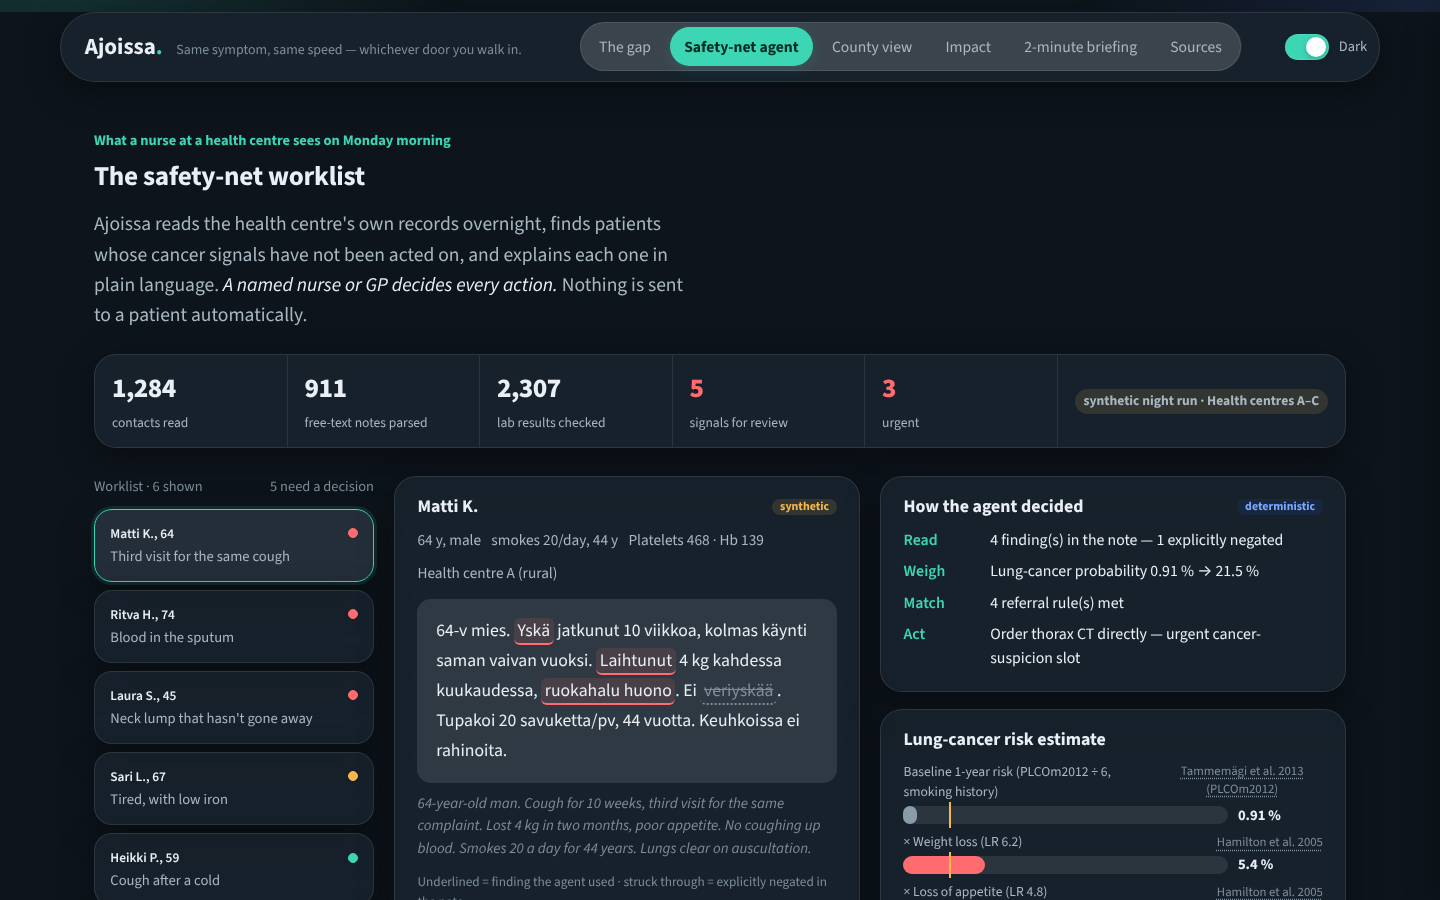
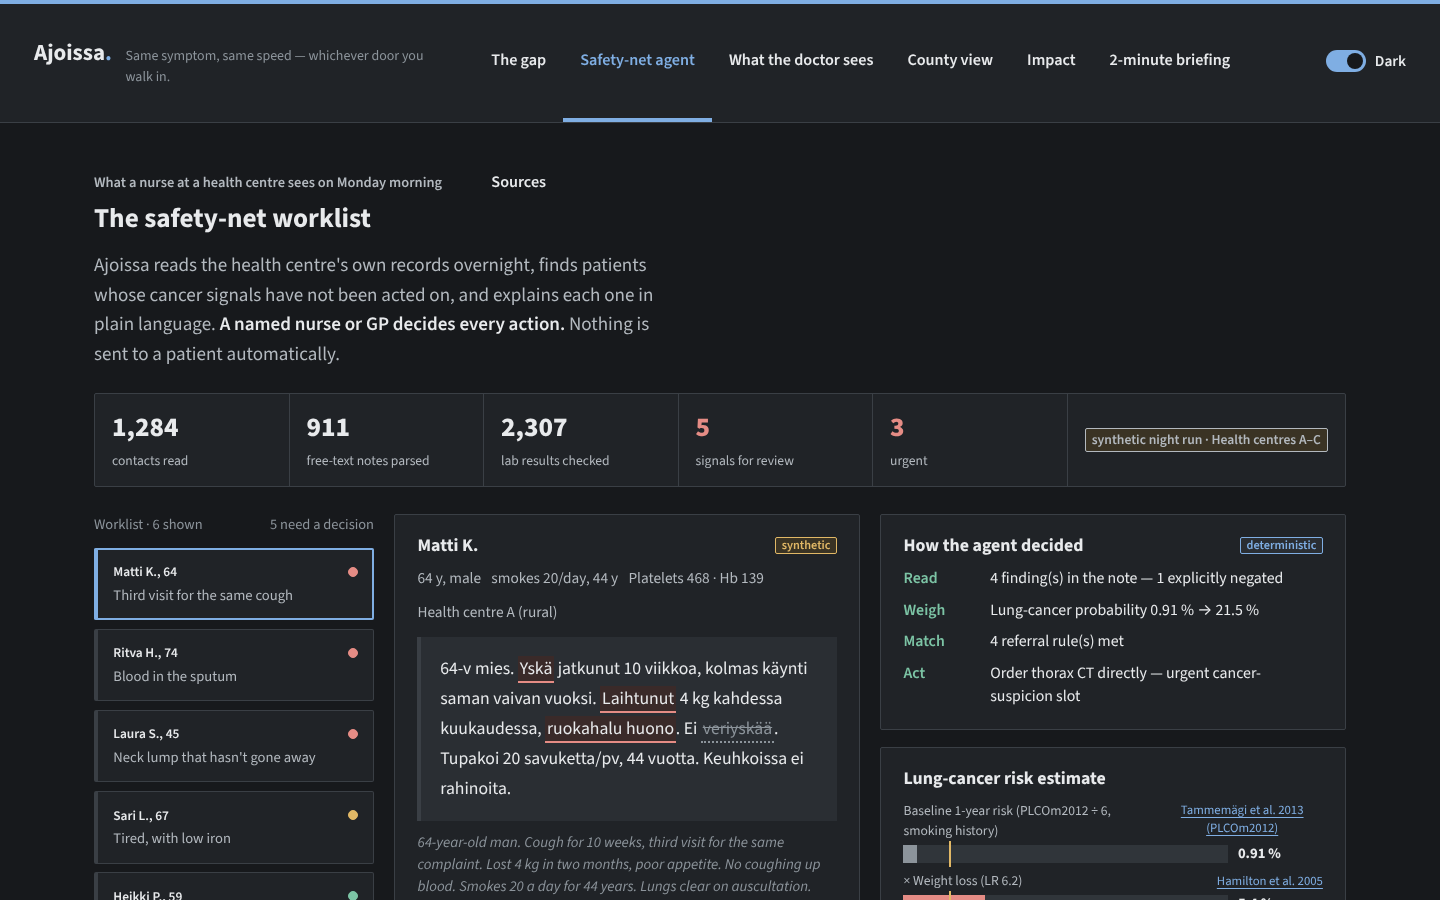
Demo preview: civic (public-service) theme, neutral dark mode, 'What the doctor sees' EHR view
Claude-Session: https://claude.ai/code/session_01AsaNd9zGyE7C2rGhmzNBqv

diff --git a/app/css/civic.css b/app/css/civic.css
@@ -1,0 +1,203 @@
+/* ============================================================
+   Ajoissa — "civic" theme: Finnish public-service feel
+   (white, boxy, 1px borders, deep blue, no glows). Light default,
+   neutral-grey dark mode. Loaded after app.css.
+   ============================================================ */
+@font-face { font-family: "Source Sans 3"; src: url("../fonts/source-sans-3-latin-wght-normal.woff2") format("woff2"); font-weight: 200 900; font-display: swap; }
+@font-face { font-family: "Source Sans 3"; src: url("../fonts/source-sans-3-latin-ext-wght-normal.woff2") format("woff2"); font-weight: 200 900; unicode-range: U+0100-024F; font-display: swap; }
+@font-face { font-family: "Source Sans 3"; src: url("../fonts/source-sans-3-latin-wght-italic.woff2") format("woff2"); font-weight: 200 900; font-style: italic; font-display: swap; }
+
+:root, [data-theme="light"] {
+  --sans: "Source Sans 3", "Segoe UI", Arial, sans-serif;
+  --serif: "Source Sans 3", "Segoe UI", Arial, sans-serif;
+  --night: #F5F6F7;          /* page */
+  --night-2: #FFFFFF;        /* surface */
+  --night-3: #EEF1F4;        /* inset / selected */
+  --dot-fill: #FFFFFF;
+  --line: #C8CDD0;
+  --line-soft: #E1E5E8;
+  --grid: #E1E5E8;
+  --snow: #212121;           /* text */
+  --frost: #4F5961;          /* secondary text */
+  --mute: #6B757D;
+  --brand: #00347A;          /* deep blue */
+  --primary: #2A6EBB;        /* action blue */
+  --primary-dark: #235A9A;
+  --sky: #2A6EBB;
+  --berry: #C13832; --alert: #C13832; --alert-text: #A82E29;
+  --berry-soft: #FBEAE9; --alert-soft: #FBEAE9;
+  --aurora: #0B7A5C; --aurora-soft: #E3F3EE; --ok-soft: #CDEBE1;
+  --amber: #9A5B00; --amber-soft: #FFF3D6;
+  --route-a: #8C969E;
+  --r-s: 2px; --r-m: 2px; --r-l: 4px;
+}
+[data-theme="dark"] {
+  --night: #17191C;
+  --night-2: #202327;
+  --night-3: #2A2E33;
+  --dot-fill: #202327;
+  --line: #3A3F45;
+  --line-soft: #30353A;
+  --grid: #30353A;
+  --snow: #E8EAEC;
+  --frost: #B3B9BF;
+  --mute: #8C949B;
+  --brand: #E8EAEC;
+  --primary: #7FAEE3;
+  --primary-dark: #9CC1EA;
+  --sky: #7FAEE3;
+  --berry: #E58C85; --alert: #E58C85; --alert-text: #F0A39D;
+  --berry-soft: #3A2A29; --alert-soft: #33272A;
+  --aurora: #7CC4A5; --aurora-soft: #24332D; --ok-soft: #2C4038;
+  --amber: #E1B866; --amber-soft: #3A3324;
+  --route-a: #8C949B;
+}
+
+html { font-size: 17px; }
+html, body { background: var(--night); color: var(--snow); font-family: var(--sans); }
+h1, h2, h3 { font-stretch: normal; letter-spacing: 0; color: var(--brand); }
+[data-theme="dark"] h1, [data-theme="dark"] h2, [data-theme="dark"] h3 { color: var(--snow); }
+h1 { font-weight: 700; font-size: clamp(2rem, 3.6vw, 3rem); max-width: 22ch; }
+.lede { font-size: 1.12rem; color: var(--frost); }
+.lede em { color: var(--snow); font-style: normal; font-weight: 600; }
+.kicker { color: var(--frost); font-weight: 600; font-size: .85rem; }
+
+/* header: white bar, underline tabs */
+.top { background: var(--night-2); border-bottom: 1px solid var(--line); backdrop-filter: none; padding: 0 2rem; gap: 1.6rem; box-shadow: none; }
+.top::before { content: ""; position: absolute; left: 0; right: 0; top: 0; height: 4px; background: var(--brand); }
+[data-theme="dark"] .top::before { background: var(--primary); }
+.brand { padding: 1rem 0 .9rem; }
+.wordmark { font-stretch: normal; font-weight: 700; font-size: 1.35rem; color: var(--brand); letter-spacing: 0; }
+[data-theme="dark"] .wordmark { color: var(--snow); }
+.wordmark .dot { color: var(--primary); }
+.brand small { color: var(--mute); }
+nav.tabs { gap: 0; align-self: stretch; }
+nav.tabs button { border-radius: 0; padding: 0 1rem; color: var(--snow); font-weight: 600; font-size: .95rem; border-bottom: 4px solid transparent; height: 100%; min-height: 3.6rem; }
+nav.tabs button[aria-selected="true"] { background: none; color: var(--primary); border-bottom-color: var(--primary); }
+nav.tabs button:hover:not([aria-selected="true"]) { background: var(--night-3); color: var(--snow); }
+
+/* boxes */
+.panel, .ev, .river, .qcard, .runbar, .unmeasured, .drawer { background: var(--night-2); border: 1px solid var(--line); border-radius: var(--r-m); box-shadow: none; }
+.river { padding: 1.6rem 1.8rem 1.2rem; }
+.panel h3 { color: var(--snow); font-size: 1.05rem; }
+.qcard { border-left: 4px solid var(--line); }
+.qcard[aria-pressed="true"] { background: var(--night-2); border-color: var(--line); border-left-color: var(--primary); outline: 2px solid var(--primary); outline-offset: -2px; }
+.qcard:hover { background: var(--night-3); }
+.note { background: var(--night-3); border-left: 4px solid var(--line); border-radius: 0; font-size: 1.04rem; }
+.note mark { background: var(--berry-soft); border-bottom: 2px solid var(--alert); border-radius: 0; }
+.note mark.calm { background: var(--night-2); border-bottom-color: var(--mute); }
+
+/* numbers */
+.river .gapnum, .ev .big, .runbar b, .outcome .v, .timer, .unmeasured .q { font-stretch: normal; letter-spacing: 0; }
+.river .gapnum { color: var(--alert); }
+.river .gapnum small { letter-spacing: 0; font-weight: 600; }
+.outcome .v { color: var(--primary); }
+
+/* buttons: rectangular, solid */
+.btn { background: var(--primary); color: #fff; border-radius: 2px; font-weight: 600; padding: .6rem 1.1rem; }
+.btn:hover:not(:disabled) { background: var(--primary-dark); }
+[data-theme="dark"] .btn { color: #17191C; }
+.btn.ghost { background: var(--night-2); color: var(--primary); border: 1px solid var(--primary); }
+.toggle { border-radius: 2px; }
+
+/* tags: small boxy labels */
+.synthetic-tag, .real-tag, .model-tag { border-radius: 2px; border: 1px solid; font-weight: 600; font-size: .72rem; padding: .05em .45em; }
+.synthetic-tag { background: var(--amber-soft); color: var(--amber); border-color: currentColor; border-style: solid; }
+.real-tag { background: var(--aurora-soft); color: var(--aurora); border-color: currentColor; }
+.model-tag { background: var(--night-3); color: var(--primary); border-color: currentColor; }
+
+.action { border-radius: 2px; border: 1px solid var(--alert); border-left-width: 6px; background: var(--night-2); }
+.action.watch { border-color: var(--amber); background: var(--night-2); }
+.action.calm { border-color: var(--aurora); background: var(--night-2); }
+.rules li { background: var(--night-3); border-radius: 0; }
+
+.bar .track, .wf-bar, .stepbar .t { background: var(--line-soft); border-radius: 0; }
+.bar .fill, .wf-fill, .stepbar .t > span { border-radius: 0; background: var(--route-a); }
+.bar.hl .fill, .wf-fill.hot, .stepbar .t > span.slow { background: var(--alert); }
+.wf-thresh { background: var(--brand); }
+[data-theme="dark"] .wf-thresh { background: var(--amber); }
+.cell-bar { border-radius: 0; background: var(--route-a); }
+.cell-bar.bad { background: var(--alert); }
+.cell-bar.ok { background: var(--aurora); }
+.stepbar { grid-template-columns: 11.5rem 1fr 3.5rem; }
+.stepbar .t > i { background: var(--brand); }
+[data-theme="dark"] .stepbar .t > i { background: var(--aurora); }
+.clock div { border-top-width: 6px; }
+.runbar > div { border-right-color: var(--line); }
+.runbar .hot b { color: var(--alert); }
+
+.unmeasured { background: var(--amber-soft); border-color: var(--amber); border-left-width: 6px; }
+.unmeasured .q { color: var(--amber); }
+.unmeasured p { font-size: 1.05rem; }
+
+.brief-card { background: var(--night-2); color: var(--snow); border: 1px solid var(--line); border-radius: 2px; }
+.brief-card h2 { color: var(--brand); }
+[data-theme="dark"] .brief-card h2 { color: var(--snow); }
+.brief-card .kicker, .brief-card .cite { color: var(--frost); }
+.brief-card li.speaking { background: var(--amber-soft); }
+
+table.tbl th { color: var(--frost); border-bottom: 2px solid var(--line); }
+table.tbl td { border-bottom-color: var(--line-soft); }
+table.tbl tr.sel td { background: var(--night-3); }
+.pill { border-radius: 2px; }
+.pill.over { background: var(--berry-soft); color: var(--alert-text); }
+.pill.ontime { background: var(--aurora-soft); color: var(--aurora); }
+.pill.risk { background: var(--amber-soft); color: var(--amber); }
+.grade { border-radius: 2px; }
+.cite { color: var(--primary); text-decoration: underline; text-decoration-style: solid; }
+footer.foot { border-top: 1px solid var(--line); }
+.patient-meta input, .patient-meta select, #e-note, #aq { background: var(--night-2) !important; color: var(--snow) !important; border: 1px solid var(--line) !important; border-radius: 2px !important; }
+
+/* theme switch: plain checkbox-style toggle */
+.theme-switch { display: inline-flex; align-items: center; gap: .5rem; font-size: .9rem; color: var(--snow); margin-left: .6rem; cursor: pointer; user-select: none; font-weight: 600; }
+.theme-switch input { position: absolute; opacity: 0; width: 1px; height: 1px; }
+.theme-switch .track { width: 40px; height: 22px; border-radius: 11px; background: var(--line); position: relative; transition: background .2s; }
+.theme-switch .knob { position: absolute; top: 3px; left: 3px; width: 16px; height: 16px; border-radius: 50%; background: #fff; transition: transform .2s; }
+.theme-switch input:checked + .track { background: var(--primary); }
+.theme-switch input:checked + .track .knob { transform: translateX(18px); background: var(--night); }
+.theme-switch input:focus-visible + .track { outline: 2px solid var(--primary); outline-offset: 2px; }
+
+/* ===== EHR view (what the doctor sees) ===== */
+.ehr { margin-top: 1.4rem; border: 1px solid var(--line); background: var(--night-2); font-size: .92rem; }
+.ehr-bar { display: flex; align-items: center; gap: 1rem; padding: .45rem .8rem; background: #3B4650; color: #fff; font-size: .82rem; }
+[data-theme="dark"] .ehr-bar { background: #2A2E33; }
+.ehr-bar b { font-weight: 700; }
+.ehr-bar span { opacity: .8; }
+.ehr-pt { display: grid; grid-template-columns: auto 1fr auto; gap: 1.2rem; align-items: center; padding: .7rem 1rem; border-bottom: 1px solid var(--line); background: var(--night-3); }
+.ehr-pt .nm { font-weight: 700; font-size: 1.05rem; }
+.ehr-pt .meta { color: var(--frost); }
+.ehr-body { display: grid; grid-template-columns: 170px 1fr 360px; min-height: 520px; }
+.ehr-nav { border-right: 1px solid var(--line); padding: .6rem 0; }
+.ehr-nav div { padding: .4rem .9rem; color: var(--frost); }
+.ehr-nav div.on { background: var(--night-3); color: var(--snow); font-weight: 600; border-left: 3px solid var(--primary); }
+.ehr-main { padding: 1rem 1.2rem; }
+.ehr-main h4 { margin: 0 0 .5rem; font-size: .95rem; color: var(--snow); }
+.ehr-field { border: 1px solid var(--line); padding: .6rem .7rem; min-height: 4.5rem; background: var(--night-2); margin-bottom: .8rem; white-space: pre-wrap; }
+.ehr-row { display: grid; grid-template-columns: 9rem 1fr; gap: .4rem; padding: .25rem 0; border-bottom: 1px solid var(--line-soft); }
+.ehr-row span:first-child { color: var(--frost); }
+.ehr-side { border-left: 1px solid var(--line); padding: .8rem; background: var(--night); }
+.cds { border: 1px solid var(--alert); border-left: 6px solid var(--alert); background: var(--night-2); padding: .8rem .9rem; }
+.cds .src { font-size: .75rem; color: var(--frost); display: flex; justify-content: space-between; margin-bottom: .3rem; }
+.cds h5 { margin: 0 0 .4rem; font-size: 1rem; color: var(--snow); }
+.cds ul { margin: .3rem 0 .6rem; padding-left: 1.1rem; }
+.cds li { margin: .15rem 0; }
+.cds .acts { display: flex; flex-direction: column; gap: .4rem; margin-top: .6rem; }
+.cds .acts .btn { justify-content: center; }
+.cds .why { font-size: .8rem; color: var(--frost); margin-top: .6rem; border-top: 1px solid var(--line-soft); padding-top: .5rem; }
+.inbox { margin-top: .9rem; border: 1px solid var(--line); background: var(--night-2); }
+.inbox h5 { margin: 0; padding: .5rem .7rem; font-size: .9rem; border-bottom: 1px solid var(--line); background: var(--night-3); }
+.inbox div { padding: .45rem .7rem; border-bottom: 1px solid var(--line-soft); display: flex; justify-content: space-between; gap: .5rem; }
+.flowrow { display: grid; grid-template-columns: repeat(4, 1fr); gap: 0; margin-top: 1rem; border: 1px solid var(--line); }
+.flowrow > div { padding: .9rem 1rem; border-right: 1px solid var(--line); background: var(--night-2); }
+.flowrow > div:last-child { border-right: 0; }
+.flowrow b { display: block; color: var(--brand); margin-bottom: .3rem; }
+[data-theme="dark"] .flowrow b { color: var(--primary); }
+.flowrow p { margin: 0; color: var(--frost); font-size: .9rem; }
+.ehr-toast { margin-top: .6rem; padding: .5rem .7rem; background: var(--aurora-soft); color: var(--aurora); border: 1px solid var(--aurora); display: none; }
+.ehr-toast.on { display: block; }
+@media (max-width: 1100px) { .ehr-body { grid-template-columns: 1fr; } .flowrow { grid-template-columns: 1fr 1fr; } .top { padding: 0 1rem; } }
+.top { flex-wrap: nowrap; }
+.brand small { display: none; }
+nav.tabs { flex-wrap: nowrap; margin-left: auto; }
+nav.tabs button { padding: 0 .75rem; font-size: .92rem; white-space: nowrap; min-height: 3.4rem; }
+@media (max-width: 1250px) { .brand small { display: none; } nav.tabs button { padding: 0 .5rem; font-size: .85rem; } }

diff --git a/app/js/app.js b/app/js/app.js
@@ -100,7 +100,7 @@
           <div class="bar"><span>Higher education · men</span><span class="track"><span class="fill" style="width:${D.ses.men[1]}%"></span></span><span class="num">${D.ses.men[1]}%</span></div>
           <div class="bar hl"><span>Basic · women</span><span class="track"><span class="fill" style="width:${D.ses.women[0]}%"></span></span><span class="num">${D.ses.women[0]}%</span></div>
           <div class="bar"><span>Higher · women</span><span class="track"><span class="fill" style="width:${D.ses.women[1]}%"></span></span><span class="num">${D.ses.women[1]}%</span></div></div>
-        <p>Five-year survival, all cancers. Less-educated patients are diagnosed later (stage IV odds +10–15 %), operated on less, and die more often <b>even after adjusting for stage, treatment and region</b>. Occupational care covers 92 % of wage earners — not the retired or unemployed.</p>
+        <p>Five-year survival, all cancers. Less-educated patients are diagnosed later (stage IV odds +10–15 %), operated on less, and have higher cancer mortality in a national register study. Occupational care covers 92 % of wage earners — not the retired or unemployed.</p>
         <footer>${cite("oecd2025")} ${cite("zai2025")} ${cite("kela2026")} <span class="real-tag">real</span></footer></article>`;
   }
 
@@ -266,6 +266,56 @@
       <text x="${(X(daysEarlier) + X(0)) / 2}" y="72" fill="var(--snow)" font-size="13" text-anchor="middle" font-weight="700">${daysEarlier} days recovered</text></svg>`;
   }
 
+  /* ================= EHR (what the doctor sees) ================= */
+  function renderEhr() {
+    const { c, r } = assessed.find(x => x.c.id === "c1");
+    const reasons = r.hits.map(h => `<li>${h.text}</li>`).join("");
+    const hist = c.history.slice().sort((a, b) => b.daysAgo - a.daysAgo);
+    $("#ehr").innerHTML = `<div class="ehr" role="img" aria-label="Illustration of a patient record with the Ajoissa card">
+      <div class="ehr-bar"><b>Patient record system</b><span>Health centre A · Reception 3 · Dr. A. Virtanen</span><span style="margin-left:auto">Generic illustration — not a real product · synthetic patient</span></div>
+      <div class="ehr-pt"><div class="nm">${c.name}</div><div class="meta">${c.patient.age} y · male · personal ID hidden · Smoker 20/day · COPD</div><span class="synthetic-tag">synthetic</span></div>
+      <div class="ehr-body">
+        <div class="ehr-nav"><div>Summary</div><div class="on">Visits</div><div>Lab results</div><div>Imaging</div><div>Orders</div><div>Referrals</div><div>Medications</div></div>
+        <div class="ehr-main">
+          <h4>Today — physician visit (draft)</h4>
+          <div class="ehr-field" id="ehr-note">${esc(c.note)}</div>
+          <h4>Recent results</h4>
+          <div class="ehr-row"><span>Platelets</span><span><b style="color:var(--alert)">468 ×10⁹/L ↑</b> (ref. 150–360)</span></div>
+          <div class="ehr-row"><span>Haemoglobin</span><span>139 g/L</span></div>
+          <h4 style="margin-top:.9rem">Earlier visits</h4>
+          ${hist.map(h => `<div class="ehr-row"><span>${h.daysAgo} days ago</span><span>${esc(h.text)}</span></div>`).join("")}
+          <div class="ehr-toast" id="ehr-toast"></div>
+        </div>
+        <div class="ehr-side">
+          <div class="cds">
+            <div class="src"><span>Ajoissa · cancer safety net</span><span>for review</span></div>
+            <h5>Consider urgent thorax CT</h5>
+            <div>Lung-cancer risk estimate <b>${pct(r.risk.posterior)}</b> (referral threshold 3 %)</div>
+            <ul>${reasons}</ul>
+            <div class="acts">
+              <button class="btn" id="ehr-order">Order thorax CT (pre-filled)</button>
+              <button class="btn ghost" id="ehr-review">Book review in 2 weeks instead</button>
+              <button class="btn ghost" id="ehr-dismiss">Not now — record reason</button>
+            </div>
+            <div class="why">Why am I seeing this? Rules after ${cite("nice_ng12")}, risk after ${cite("plcom2012")} and ${cite("hamilton2005")}. The suggestion is advisory; the decision and the order stay with you.</div>
+          </div>
+          <div class="inbox"><h5>Safety-net list · nurse M. Korhonen</h5>
+            ${assessed.filter(x => x.r.action.target && x.c.id !== "c1").map(x => `<div><span>${x.c.name}</span><span style="color:var(--frost)">${x.r.action.clock[0]}</span></div>`).join("")}
+          </div>
+        </div>
+      </div></div>`;
+    const toast = (t) => { const el2 = $("#ehr-toast"); el2.textContent = t; el2.classList.add("on"); };
+    $("#ehr-order").addEventListener("click", () => toast("Draft order created: Thorax CT, urgent (cancer suspicion). Clinical details pre-filled from the note and results — check and sign to send. Pathway clock starts when signed."));
+    $("#ehr-review").addEventListener("click", () => toast("Review booked in 14 days. If it is missed, Matti returns to the top of the safety-net list."));
+    $("#ehr-dismiss").addEventListener("click", () => toast("Dismissed. Your reason is logged and used to tune the rules — the card will not reappear for these findings."));
+    $("#ehr-flow").innerHTML = [
+      ["1 · Data the county already has", "Most counties already copy their records nightly into a data warehouse or data lake. Ajoissa reads from there, so there is no new data collection and no change to the doctor's workflow."],
+      ["2 · Engine on county servers", "The rules and risk model run inside the county's own environment, as the new law requires: the county's own data, for its own patients, with every access logged."],
+      ["3 · Shown inside the record", "Where the record system supports open plug-in standards (HL7 FHIR, SMART on FHIR, CDS Hooks), the card appears in the chart. Where it doesn't, the nurse uses a separate worklist page with single sign-on and a direct link to the patient."],
+      ["4 · Decision goes back", "The doctor's choice comes back as a draft order or a note the doctor signs. Signing starts the pathway clock; the timestamps feed the county view."]
+    ].map(([h, t]) => `<div><b>${h}</b><p>${t}</p></div>`).join("");
+  }
+
   /* ================= COUNTY ================= */
   // Seeded RNG so the synthetic numbers are identical on every run
   function rng(seed) { return () => (seed = (seed * 16807) % 2147483647) / 2147483647; }
@@ -429,7 +479,7 @@
   }
 
   /* ---------------- boot ---------------- */
-  renderEvidence(); renderQueue(); selectCase(assessed[0].c.id); renderCounty(); renderImpact(); renderBrief(); renderSources();
+  renderEvidence(); renderQueue(); selectCase(assessed[0].c.id); renderEhr(); renderCounty(); renderImpact(); renderBrief(); renderSources();
   const start = (location.hash || "#gap").slice(1);
-  show(["gap", "agent", "county", "impact", "brief", "sources"].includes(start) ? start : "gap");
+  show(["gap", "agent", "ehr", "county", "impact", "brief", "sources"].includes(start) ? start : "gap");
 })();

diff --git a/app/index.html b/app/index.html
@@ -6,7 +6,7 @@
 <title>Ajoissa — the cancer safety net for public primary care</title>
 <meta name="description" content="Ajoissa finds patients whose cancer signals are stalling in public primary care, puts them on a named clinician's list, and keeps a clock running until they are diagnosed or cleared.">
 <link rel="stylesheet" href="css/app.css">
-<link rel="stylesheet" href="css/glass.css">
+<link rel="stylesheet" href="css/civic.css">
 <script>try{document.documentElement.dataset.theme=localStorage.getItem("ajoissa-theme")||"light"}catch(e){document.documentElement.dataset.theme="light"}</script>
 </head>
 <body>
@@ -18,6 +18,7 @@
   <nav class="tabs" role="tablist" aria-label="Views">
     <button role="tab" data-view="gap" aria-selected="true">The gap</button>
     <button role="tab" data-view="agent" aria-selected="false">Safety-net agent</button>
+    <button role="tab" data-view="ehr" aria-selected="false">What the doctor sees</button>
     <button role="tab" data-view="county" aria-selected="false">County view</button>
     <button role="tab" data-view="impact" aria-selected="false">Impact</button>
     <button role="tab" data-view="brief" aria-selected="false">2-minute briefing</button>
@@ -54,6 +55,16 @@
       <div id="note-col"></div>
       <div id="reason-col"></div>
     </div>
+  </section>
+
+  <!-- ======================= EHR ======================= -->
+  <section class="view" id="view-ehr" aria-label="What the doctor sees">
+    <p class="kicker">Inside the county's own patient-record system</p>
+    <h2>No new app to open. The signal appears where the doctor already works.</h2>
+    <p class="lede">When Dr. Virtanen opens Matti's record, a card from Ajoissa sits beside the chart: why he was flagged, the risk estimate, and one pre-filled order. <em>Nothing happens until she signs it.</em></p>
+    <div id="ehr"></div>
+    <h3 style="margin-top:2rem">How it plugs into different patient-record systems</h3>
+    <div class="flowrow" id="ehr-flow"></div>
   </section>
 
   <!-- ======================= COUNTY ======================= -->
